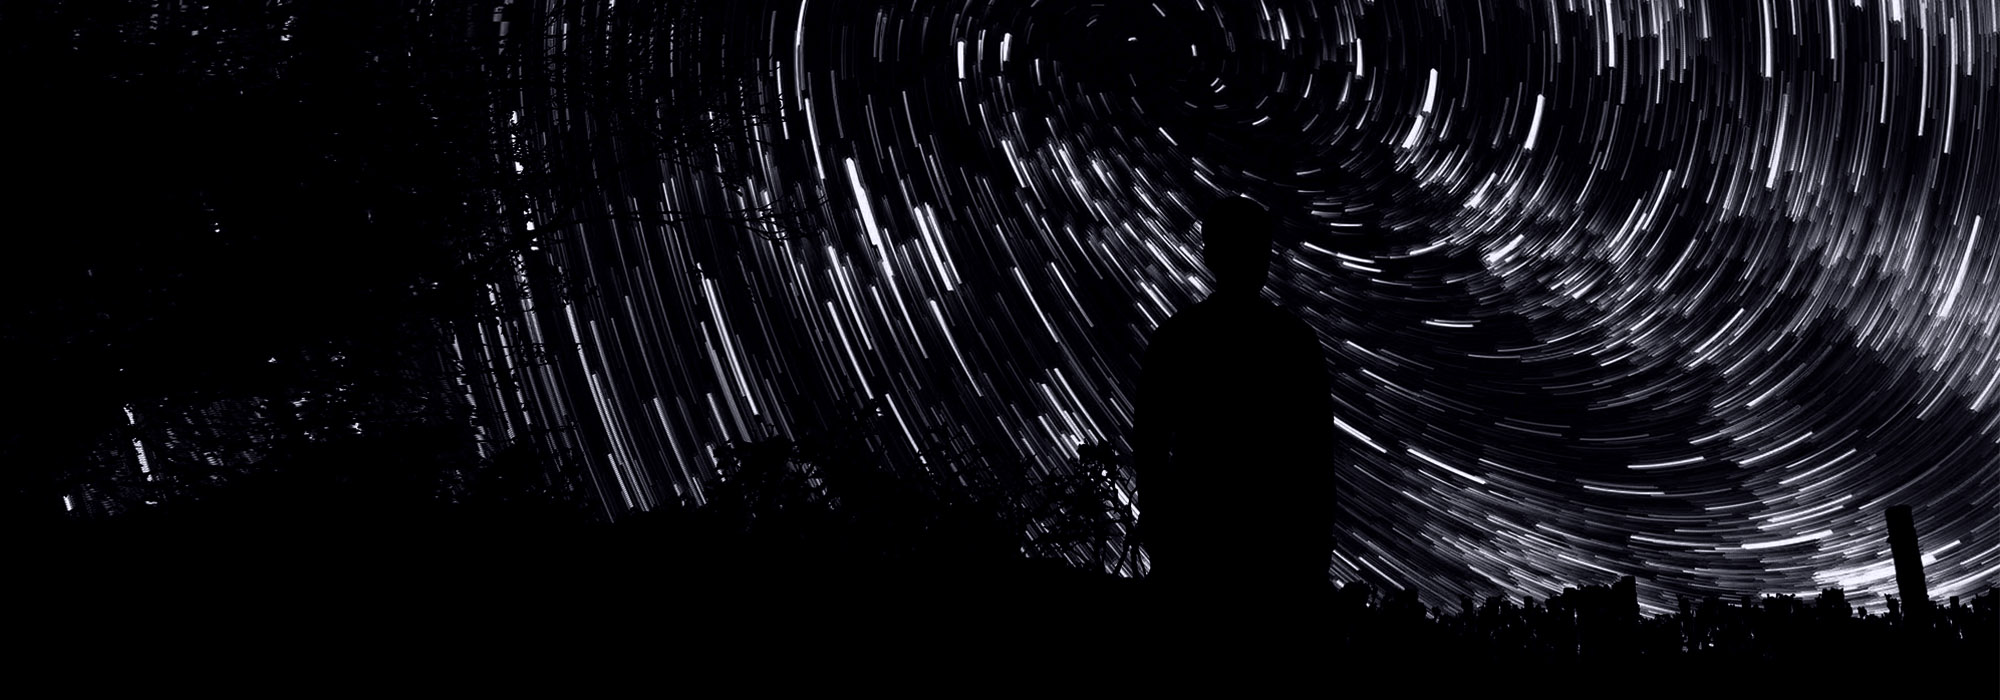
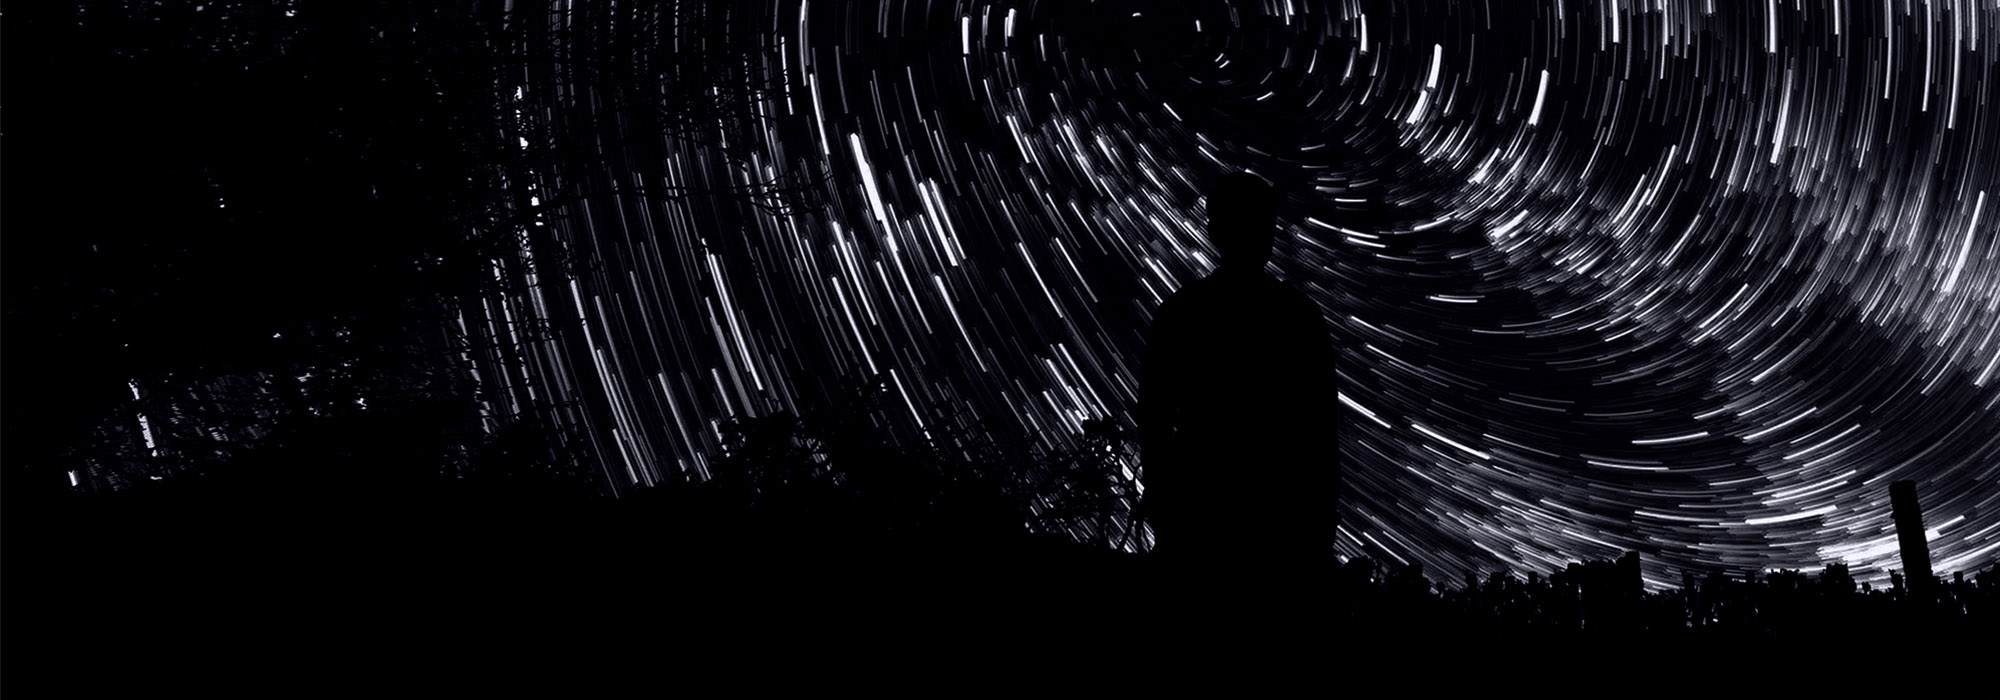
fond banière identique à l'image, perception du temps -> téléchargement

diff --git a/index.html b/index.html
@@ -45,7 +45,7 @@
 
 		<!-- Header -->
 			<header id="header" class="skel-layers-fixed">
-				<h1><a href="#">Ressources en ligne</a></h1>
+				<h1><a href="#">La perception du temps</a></h1>
 				<nav id="nav">
 					<ul>
 						<li><a href="index.html">Accueil</a></li>
@@ -60,7 +60,7 @@
 		<!-- Banner -->
 			<section id="banner">
 				<div class="inner">
-					<h2>La perception du temps</h2>
+					<h2>Téléchargement</h2>
 					<p>Travail de maturité <!-- <a href="http://templated.co">TEMPLATED</a></p> -->
 					<ul class="actions">
 						<li><a href="https://github.com/Temporalite/TM/raw/master/latex/TM.pdf" class="button big special">PDF</a></li>

diff --git a/css/style.css b/css/style.css
@@ -977,7 +977,7 @@
 /* Banner */
 
 	#banner {
-		background-color: #666666;
+		background-color: #101214;
 		background-image: url("../images/banner.jpg");
 		background-size: cover;
 		background-position: center center;
@@ -1034,6 +1034,7 @@
 
 		#banner h2 {
 			font-size: 3.5em;
+			text-shadow: 0 0 2px black;
 			line-height: 1em;
 			margin: 0 0 0.5em 0;
 			padding: 0;
